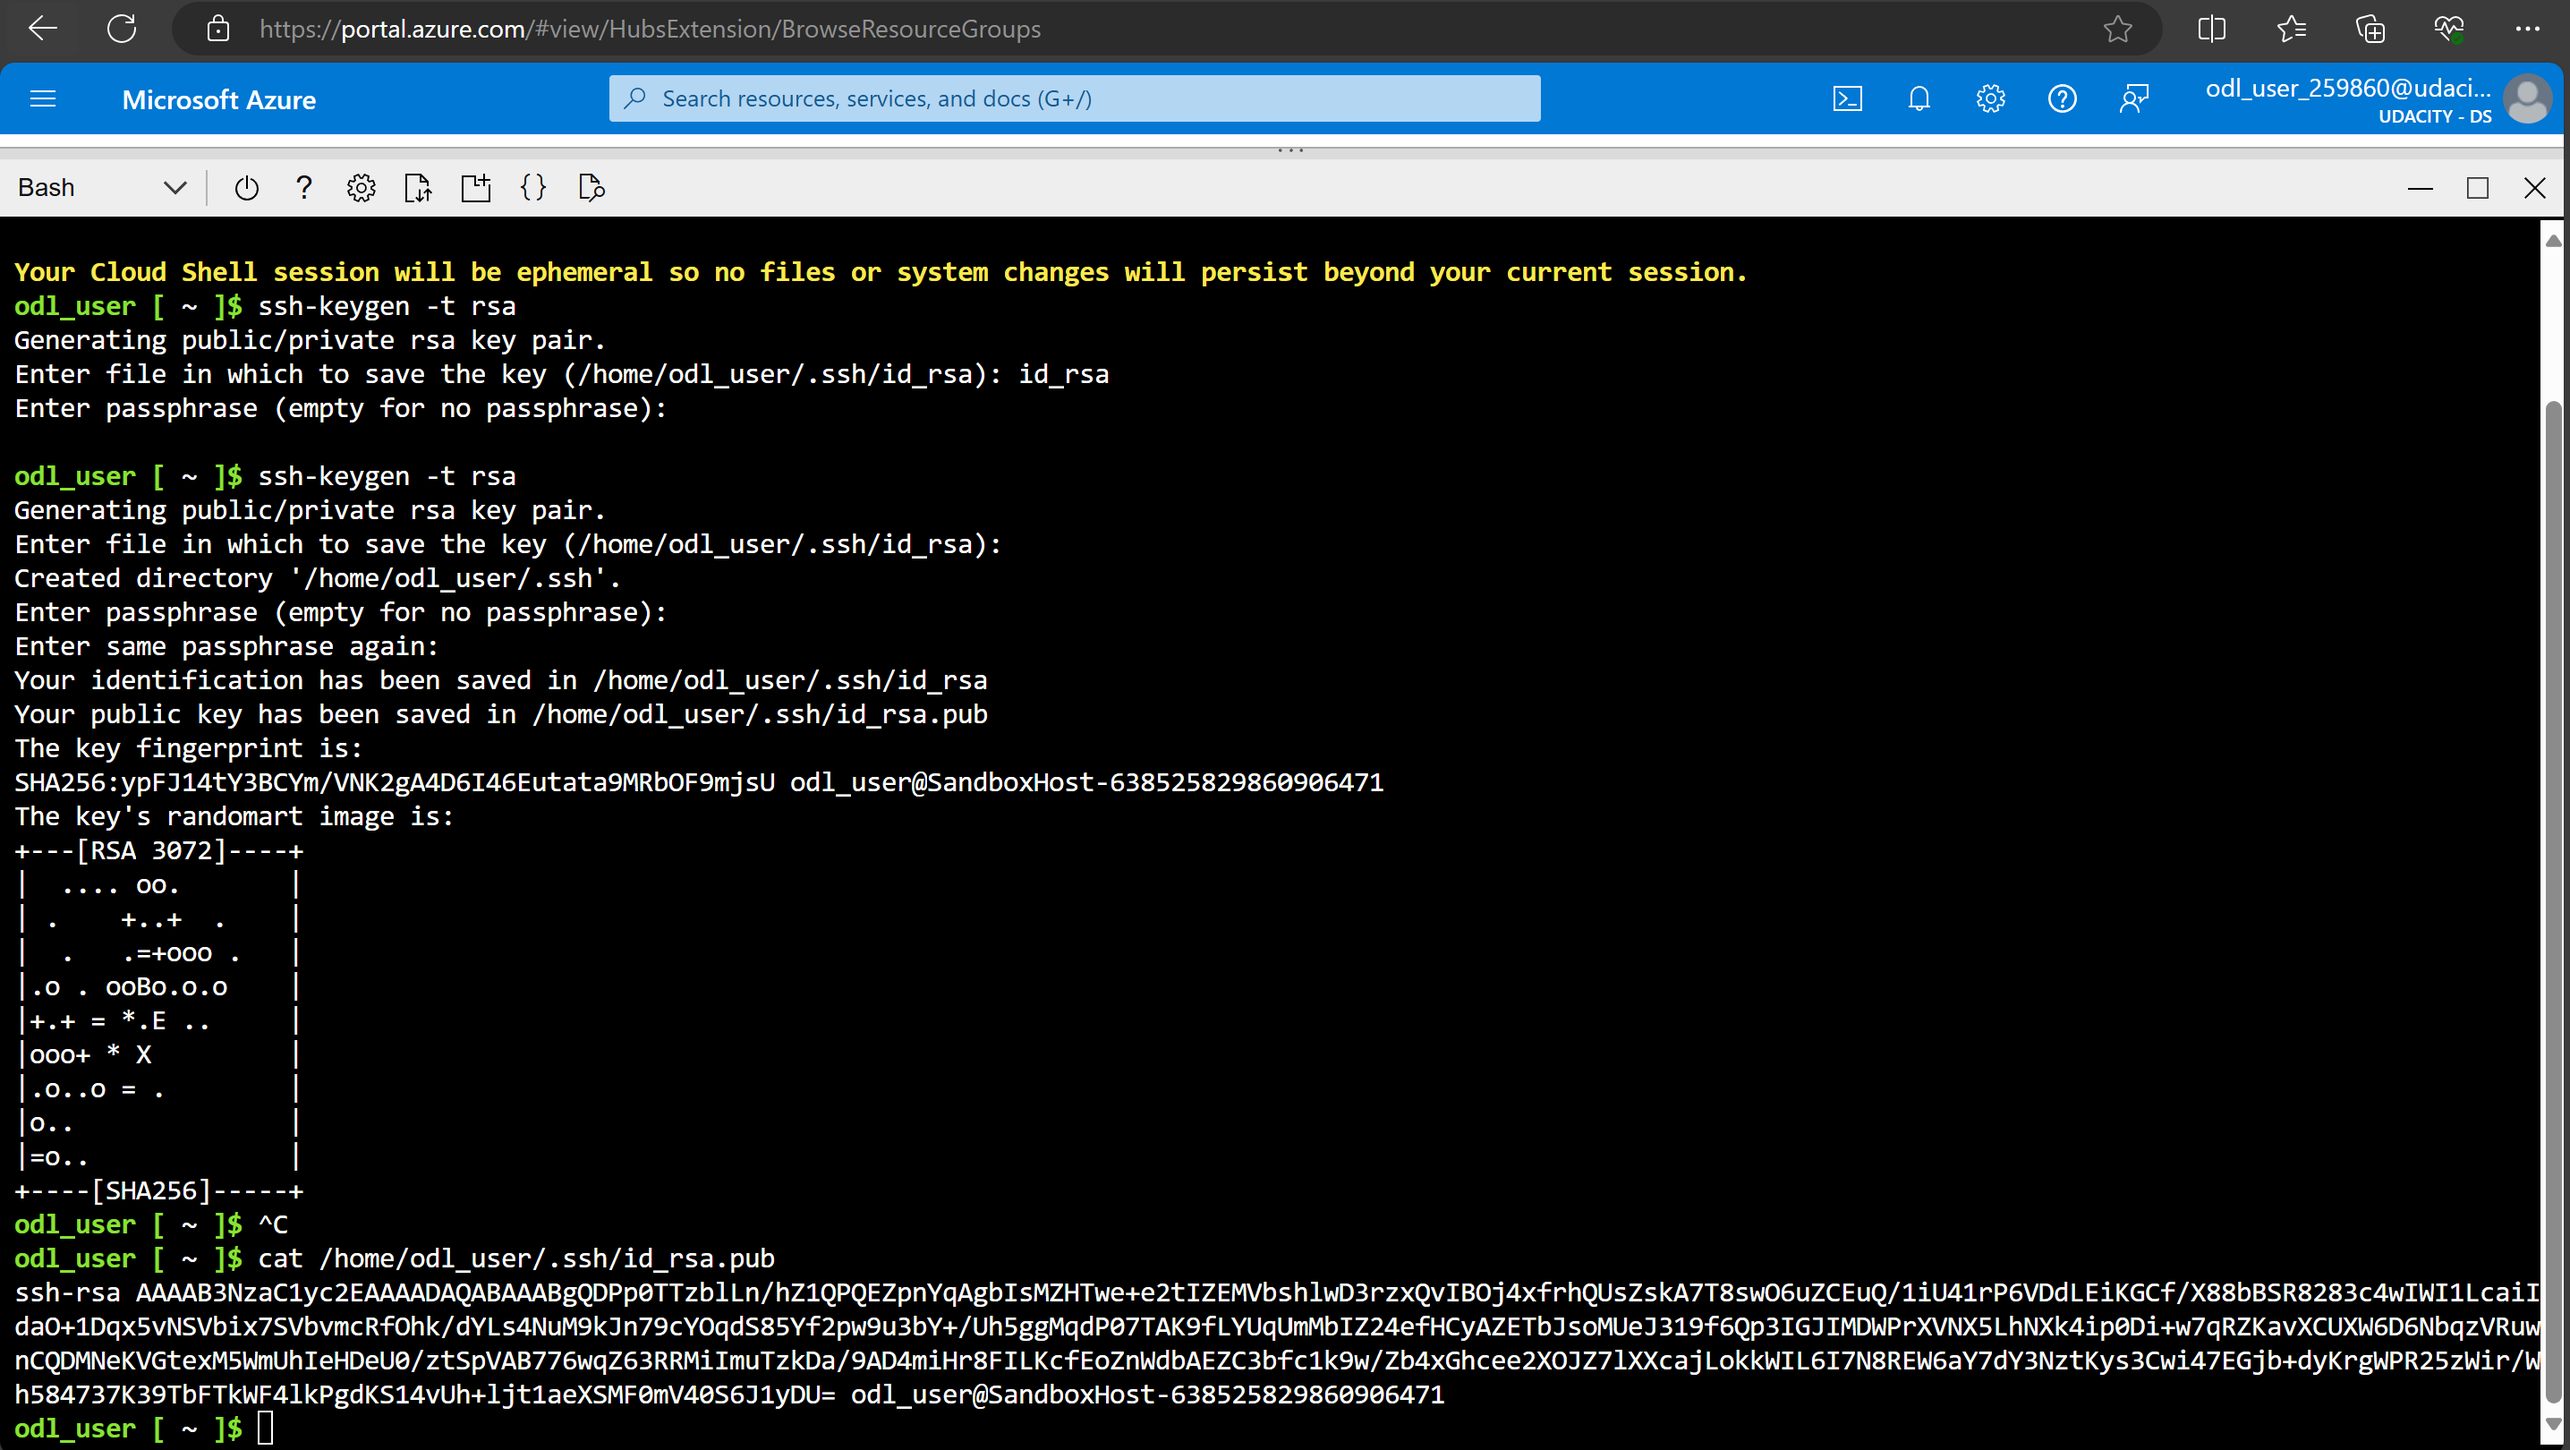
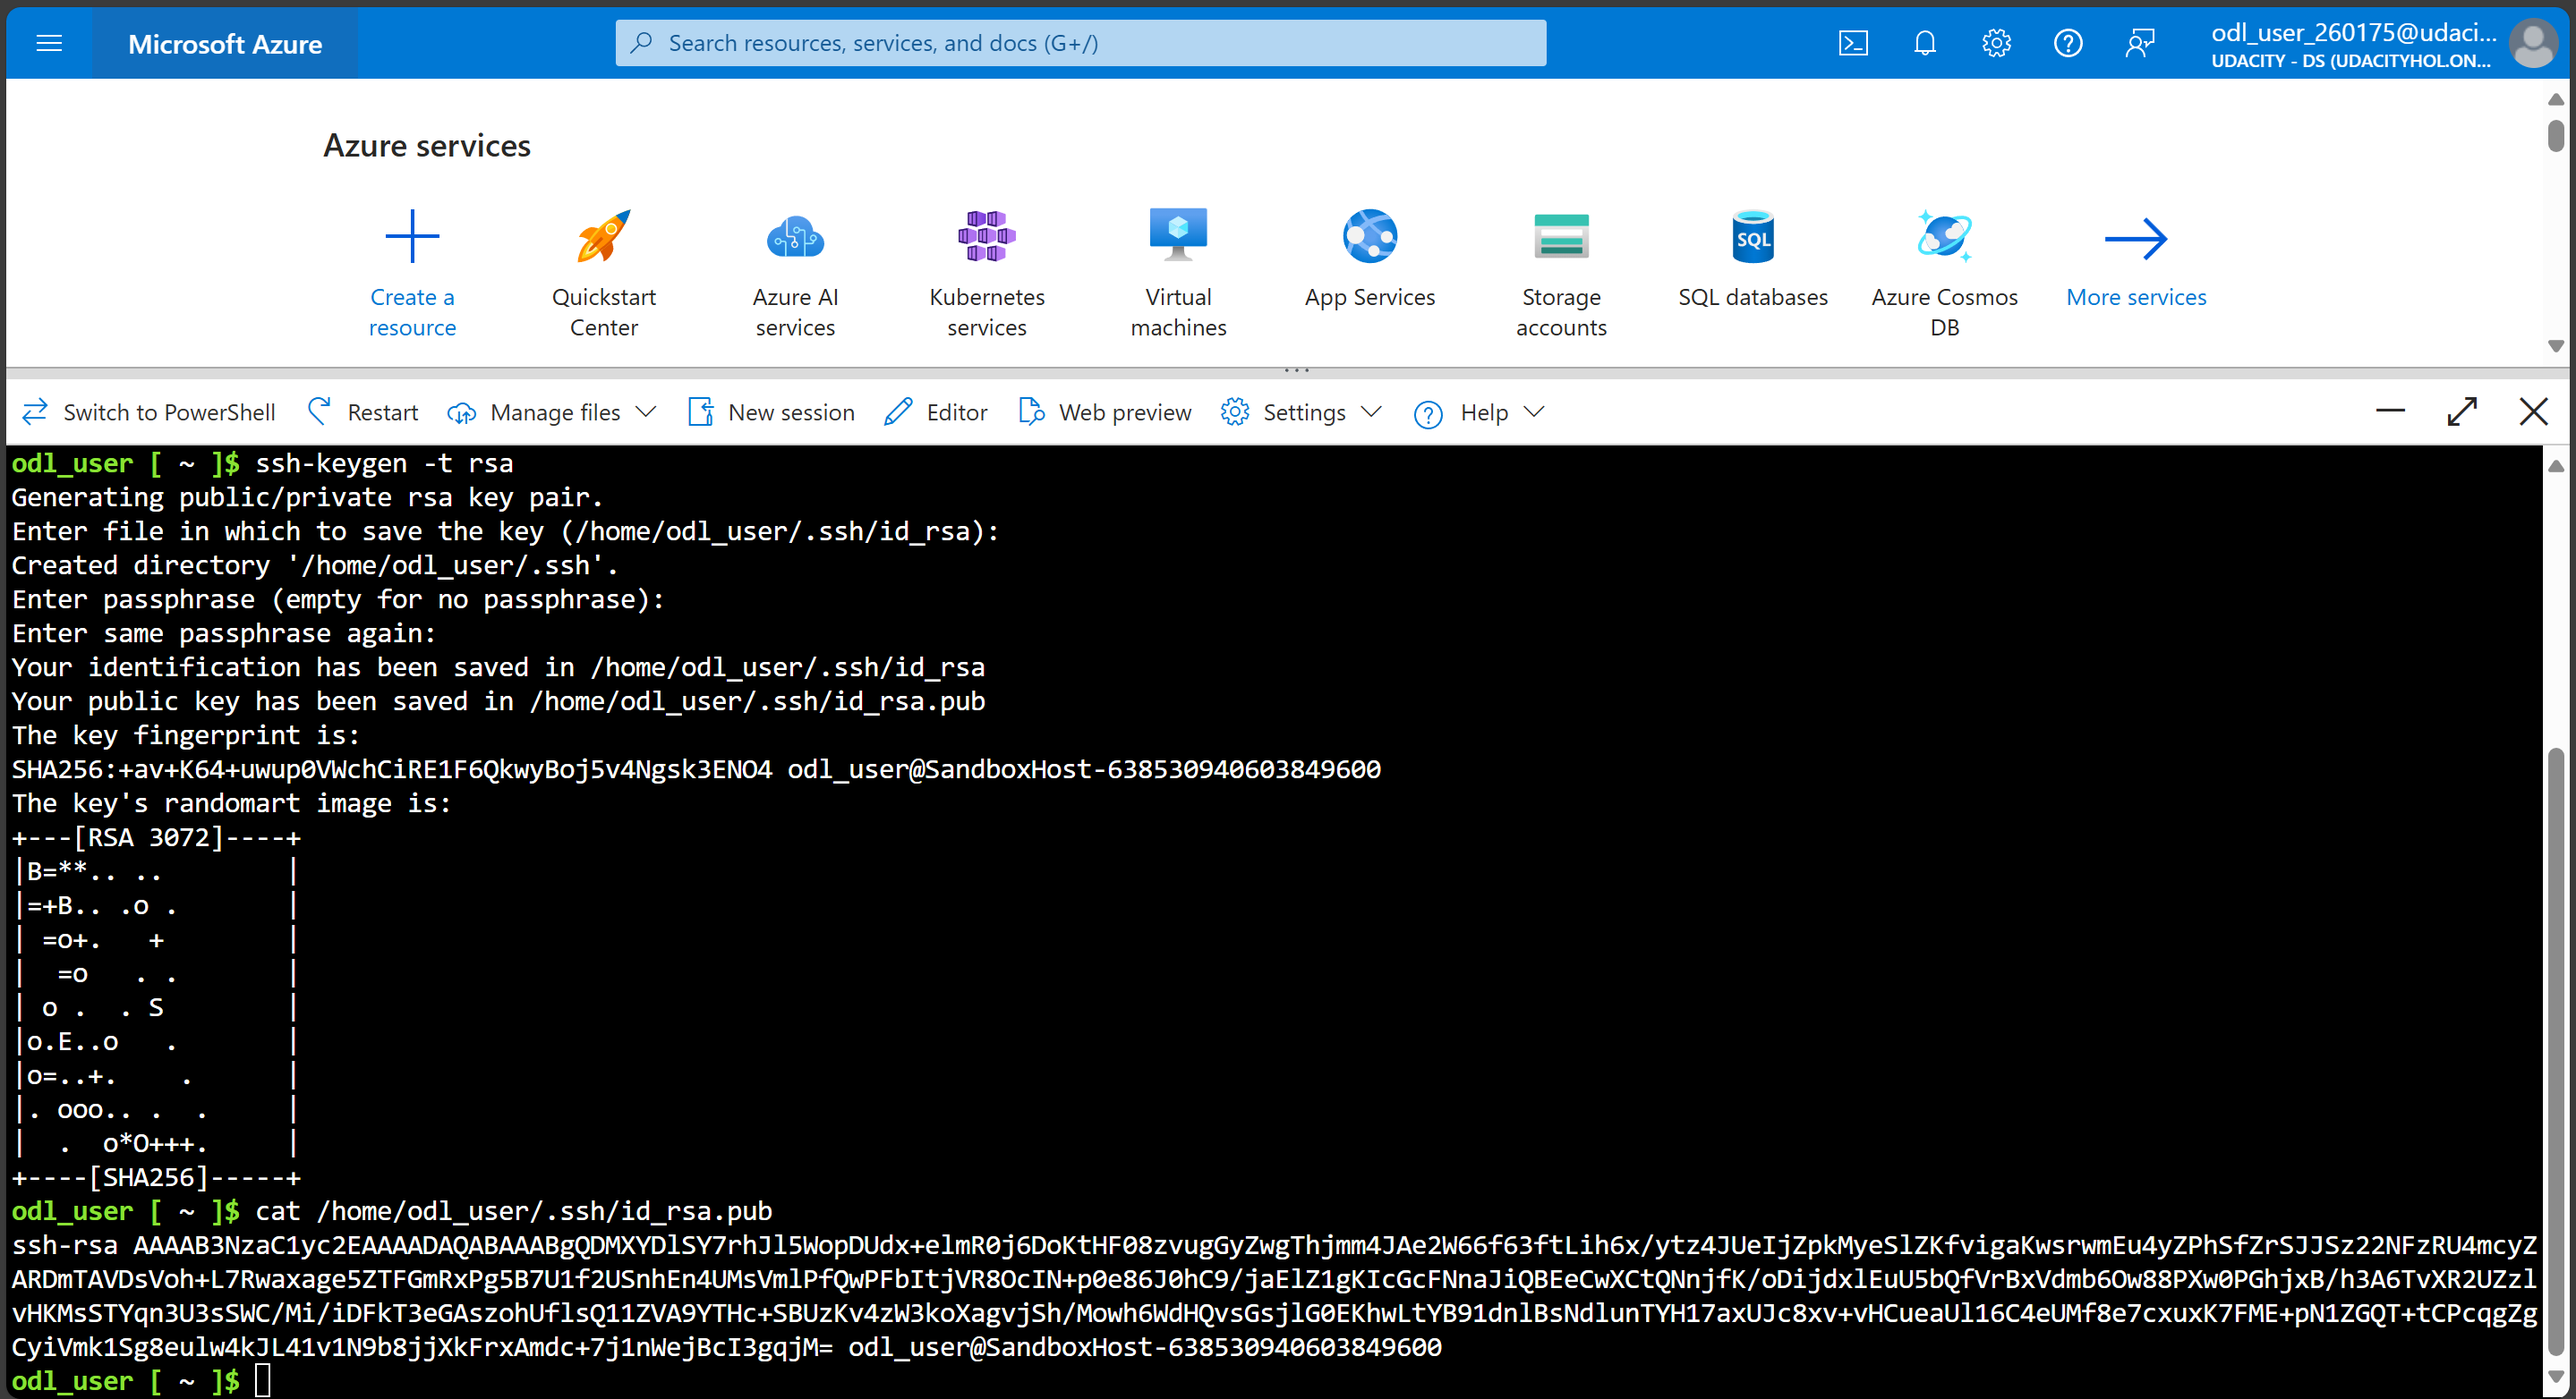
Working README

diff --git a/README.md b/README.md
@@ -1,32 +1,44 @@
 # Azure Infrastructure Operations Project: Building a CI/CD Pipeline
 
-### Introduction
+## Introduction
 For this project, you will build a Github repository from scratch and create a scaffolding that will assist you in performing both Continuous Integration and Continuous Delivery.
 
-### Getting Started
+## Getting Started
 1. Clone this repository
 2. Update this README to reflect how someone would use your code.
 
-### Dependencies
+## Dependencies
 1. Create an [Github Account](https://github.com)
 1. Create an [Azure Account](https://portal.azure.com)
-3. Install GNU for run Make Command on Window OS [GNUWIN32](https://sourceforge.net/projects/gnuwin32/)
-4. Install [Python](https://www.python.org/) 
 
-### Trello board
+## Trello board
 https://trello.com/b/4Gusjl7K/project-management-template-udacity-azure
 
-### Spreadsheet
+## Spreadsheet
 https://docs.google.com/spreadsheets/d/1p8G7eR6ItVUcQuKBGDGGwJW6gfh8JcfsDvpT5bLv3L4/edit?usp=sharing
 
-### Instructions
+## Instructions
 
-**1. Create the Cloud-Based Development Environment**
-- Create a repo from github
-- Launch an Azure Cloud Shell environment and create ssh-keys. Upload these keys to your GitHub account.
-- Take a screenshot showing the project cloned into Azure Cloud Shell
-- Create scaffolding for project
-    1. Create a Makefile
+### 1. CI: Set Up Azure Cloud Shell
+
+#### Create the Cloud-Based Development Environment
+1. Create a GitHub Repo
+    ![Define prefix variable](https://github.com/khiempnvio/udacity_azure_project_2/blob/main/Images/repo.png?raw=true)
+
+2. Log in Azure Portal and access Azure Cloud Shell
+
+3. Launch an Azure Cloud Shell environment and create ssh-keys. Upload these keys to your GitHub account.
+    - Generate SSH Key
+    ```bash
+    ssh-keygen -t rsa
+    ```
+    ![Define prefix variable](/Images/ssh-keygen.png?raw=true)
+
+    - Copy the public key to Github Account -> Settings -> SSH and GPG keys (https://github.com/settings/keys)
+    ![Define prefix variable](/Images/git_hub_ssh_key.png)
+
+#### Create Project Scaffolding
+1. Create a Makefile
     ```
         install:
             pip install --upgrade pip &&\
@@ -39,12 +51,12 @@ https://docs.google.com/spreadsheets/d/1p8G7eR6ItVUcQuKBGDGGwJW6gfh8JcfsDvpT5bLv
 
         all: install lint test
     ```
-    2. Create a requirements.txt
+2. Create a requirements.txt
     ```
         pylint
         pytest
     ```
-    3. Create a hello.py
+3. Create a hello.py
     ```
         def toyou(x):
             return "hi %s" % x
@@ -57,7 +69,7 @@ https://docs.google.com/spreadsheets/d/1p8G7eR6ItVUcQuKBGDGGwJW6gfh8JcfsDvpT5bLv
         def subtract(x):
             return x - 1
     ```
-    4. Create a test_hello.py
+4. Create a test_hello.py
     ```
         from hello import toyou, add, subtract
 
@@ -78,202 +90,24 @@ https://docs.google.com/spreadsheets/d/1p8G7eR6ItVUcQuKBGDGGwJW6gfh8JcfsDvpT5bLv
         def test_hello_subtract():
             assert subtract(test_hello_subtract.x) == 9
     ```
-**2. Configure GitHub Actions**
-- This diagram for GitHub Actions
-    ![Define prefix variable](/images/ci-diagram.png.png)
-- Create a file  [pythonapp.yml](https://github.com/khiempnvio/udacity_azure_project_2/actions/new) for workfollow
-    
+#### Local Test
+1. Git clone using SSH 
     ```
-        name: Python application test with Github Actions
-
-        on: [push]
-
-        jobs:
-        build:
-
-            runs-on: ubuntu-latest
-
-            steps:
-            - uses: actions/checkout@v2
-            - name: Set up Python 3.5
-            uses: actions/setup-python@v1
-            with:
-                python-version: 3.5
-            - name: Install dependencies
-            run: |
-                make install
-            - name: Lint with pylint
-            run: |
-                make lint
-            - name: Test with pytest
-            run: |
-                make test
+        git@github.com:khiempnvio/udacity_azure_project_2.git
     ```
-- Go to Git Actions to see result.
-- Run make lint, make test to verify everything is passed.
-    > make lint
-
-    > make test
-
-**3. Continuous Delivery on Azure**
-1. Update Makefile
+    ![Define prefix variable](/Images/git_hub_clone_from_azure_cli.png)
+2. Create the Python Virtual Environment
     ```
-    setup:
-        python3 -m venv ~/.udacity-devops
-
-    install:
-        pip install --upgrade pip &&\
-            pip install -r requirements.txt
-
-    test:
-        #python -m pytest -vv --cov=myrepolib tests/*.py
-        #python -m pytest --nbval notebook.ipynb
-
-
-    lint:
-        #hadolint Dockerfile #uncomment to explore linting Dockerfiles
-        pylint --disable=R,C,W1203 app.py
-
-    all: install lint test
+        python3 -m venv ~/.appvenv
+        source ~/.appvenv/bin/activate
     ```
-
-2. Update requirements.txt
+    ![Define prefix variable](/Images/git_hub_python_environtment.png)
+3. Install all dependencies by using make
     ```
-    Flask== 2.2.2
-    pandas==1.3.5
-    scikit-learn==1.0.2
-    joblib==1.2.0
-    pylint==2.13.7
-    pytest==7.1.2
+        make all
     ```
-3. Create a app.py file
+4. Run application using flask
     ```
-        from flask import Flask, request, jsonify
-        from flask.logging import create_logger
-        import logging
-
-        import pandas as pd
-        import joblib
-        from sklearn.preprocessing import StandardScaler
-
-        app = Flask(__name__)
-        LOG = create_logger(app)
-        LOG.setLevel(logging.INFO)
-
-        def scale(payload):
-            """Scales Payload"""
-
-            LOG.info("Scaling Payload: %s payload")
-            scaler = StandardScaler().fit(payload)
-            scaled_adhoc_predict = scaler.transform(payload)
-            return scaled_adhoc_predict
-
-        @app.route("/")
-        def home():
-            html = "<h3>Sklearn Prediction Home</h3>"
-            return html.format(format)
-
-        # TO DO:  Log out the prediction value
-        @app.route("/predict", methods=['POST'])
-        def predict():
-            # Performs an sklearn prediction
-            try:
-                # Load pretrained model as clf. Try any one model. 
-                # clf = joblib.load("./Housing_price_model/LinearRegression.joblib")
-                # clf = joblib.load("./Housing_price_model/StochasticGradientDescent.joblib")
-                clf = joblib.load("./Housing_price_model/GradientBoostingRegressor.joblib")
-            except:
-                LOG.info("JSON payload: %s json_payload")
-                return "Model not loaded"
-
-            json_payload = request.json
-            LOG.info("JSON payload: %s json_payload")
-            inference_payload = pd.DataFrame(json_payload)
-            LOG.info("inference payload DataFrame: %s inference_payload")
-            scaled_payload = scale(inference_payload)
-            prediction = list(clf.predict(scaled_payload))
-            return jsonify({'prediction': prediction})
-
-        if __name__ == "__main__":
-            app.run(host='0.0.0.0', port=5000, debug=True)
+        export FLASK_APP=app.py
+        flask run
     ```
-4. Create a make_predict_azure_app.sh file
-    ```
-        #!/usr/bin/env bash
-
-        PORT=443
-        echo "Port: $PORT"
-
-        # POST method predict
-        curl -d '{
-        "CHAS":{
-            "0":0
-        },
-        "RM":{
-            "0":6.575
-        },
-        "TAX":{
-            "0":296.0
-        },
-        "PTRATIO":{
-            "0":15.3
-        },
-        "B":{
-            "0":396.9
-        },
-        "LSTAT":{
-            "0":4.98
-        }
-        }'\
-            -H "Content-Type: application/json" \
-            -X POST https://<yourappname>.azurewebsites.net:$PORT/predict 
-            #your application name <yourappname>goes here
-    ```
-5. Create a make_prediction.sh file
-    ```
-        #!/usr/bin/env bash
-        PORT=8000
-        echo "Port: $PORT"
-
-        # POST method predict
-        curl -d '{  
-        "CHAS":{  
-            "0":0
-        },
-        "RM":{  
-            "0":6.575
-        },
-        "TAX":{  
-            "0":296.0
-        },
-        "PTRATIO":{  
-            "0":15.3
-        },
-        "B":{  
-            "0":396.9
-        },
-        "LSTAT":{  
-            "0":4.98
-        }
-        }'\
-            -H "Content-Type: application/json" \
-            -X POST http://localhost:$PORT/predict
-    ```
-6. Create a locustfile.py file
-    ```
-    ```
-7. Create a commands.sh file
-    > az webapp up -n <your-appservice>
-### Output
-
-**1. Create the Cloud-Based Development Environment**
-- Create a repo from github
-    ![Define prefix variable](https://github.com/khiempnvio/udacity_azure_project_2/blob/main/Images/repo.png?raw=true)
-- Launch an Azure Cloud Shell environment and create ssh-keys. Upload these keys to your GitHub account.
-    ![Define prefix variable](/images/ssh-keygen.png)
-- Take a screenshot showing the project cloned into Azure Cloud Shell.
-    ![Define prefix variable](/images/git-clone-from-azure-cloud-shell.png)
-
-**2. Configure GitHub Actions**
-- Go to Git Actions to see result.
-    ![Define prefix variable](/images/git_action_success.png)
